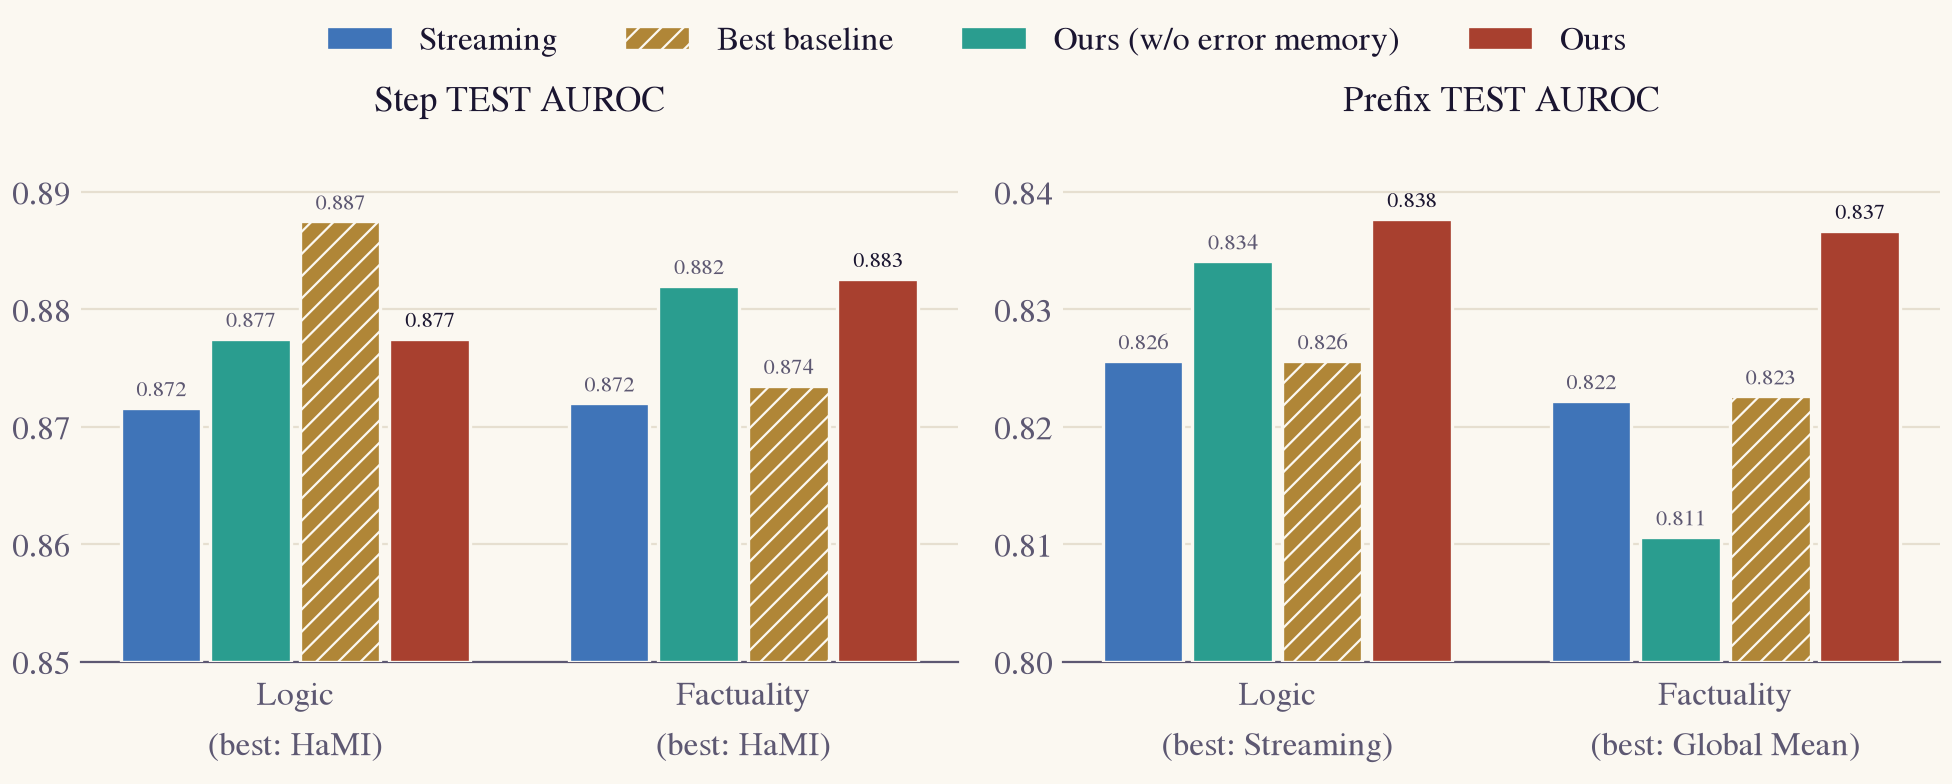
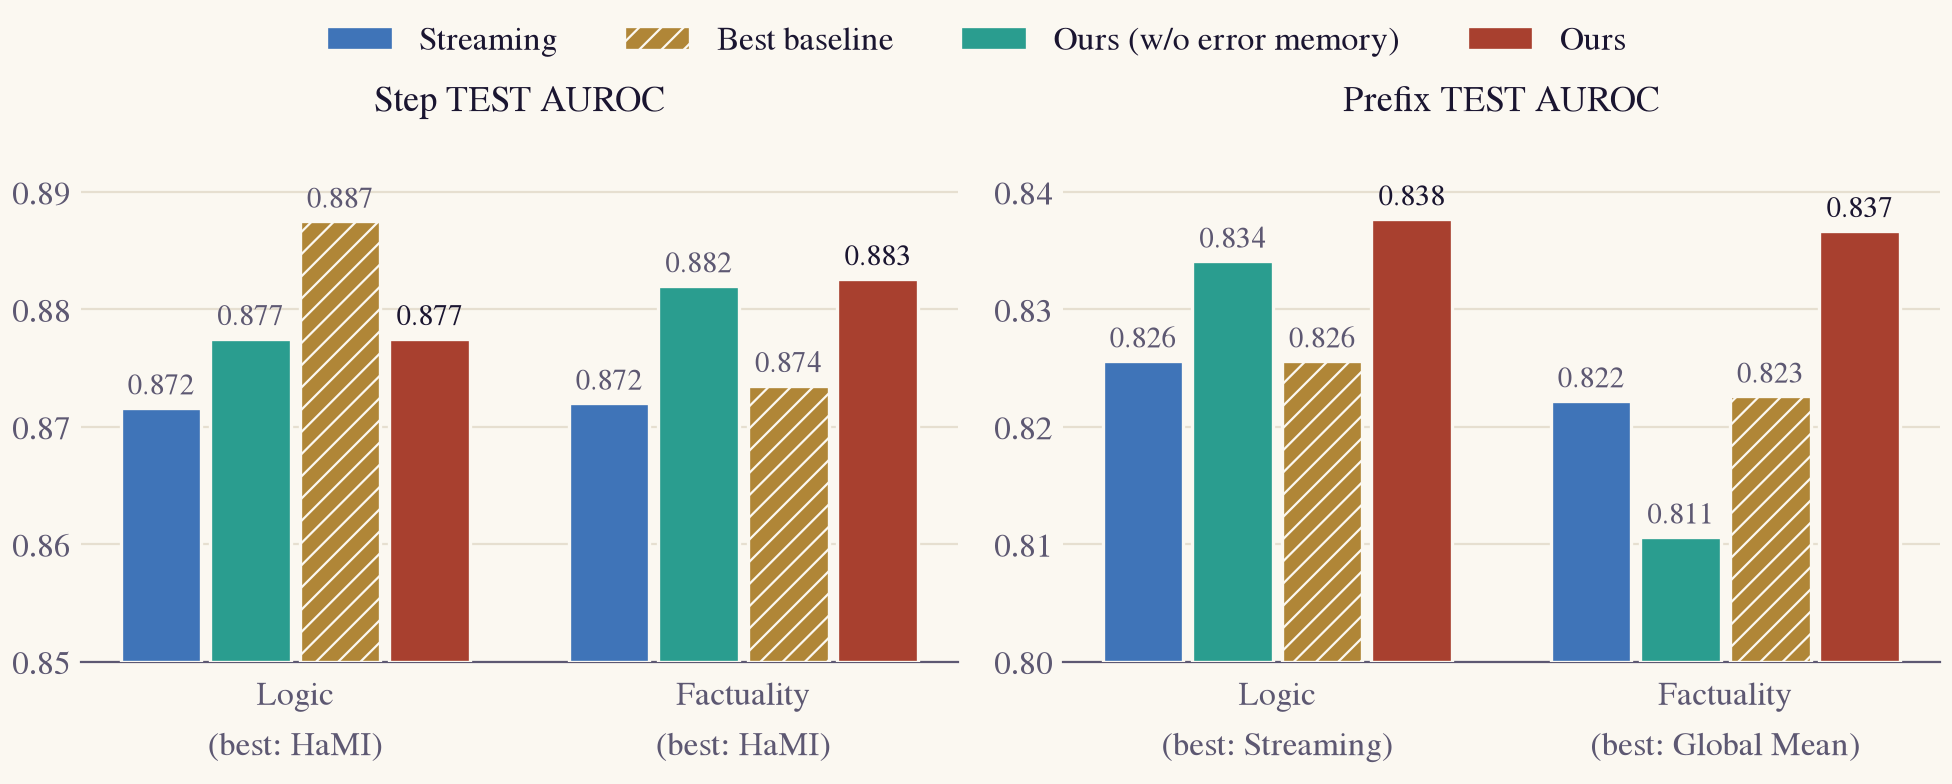
weekly: enlarge bar value labels in the result charts

diff --git a/weekly/scripts/2026-11-18_a2.py b/weekly/scripts/2026-11-18_a2.py
@@ -54,7 +54,7 @@ def bars(ax, x, values, lo, hi, best_name, domains):
         ax.bar(pos, np.array(vals) - lo, w - 0.02, bottom=lo, color=color, hatch=hatch, edgecolor=SURFACE,
                linewidth=1.2, label=name, zorder=3)
         for p, v in zip(pos, vals):
-            ax.text(p, v + (hi - lo) * 0.012, f"{v:.3f}", ha="center", va="bottom", fontsize=8,
+            ax.text(p, v + (hi - lo) * 0.012, f"{v:.3f}", ha="center", va="bottom", fontsize=10.5,
                     color=INK if name == "Ours" else INK2)
     ax.set_xticks(x, [f"{d}\n(best: {b})" for d, b in zip(domains, best_name)], color=INK)
     ax.set_ylim(lo, hi)
